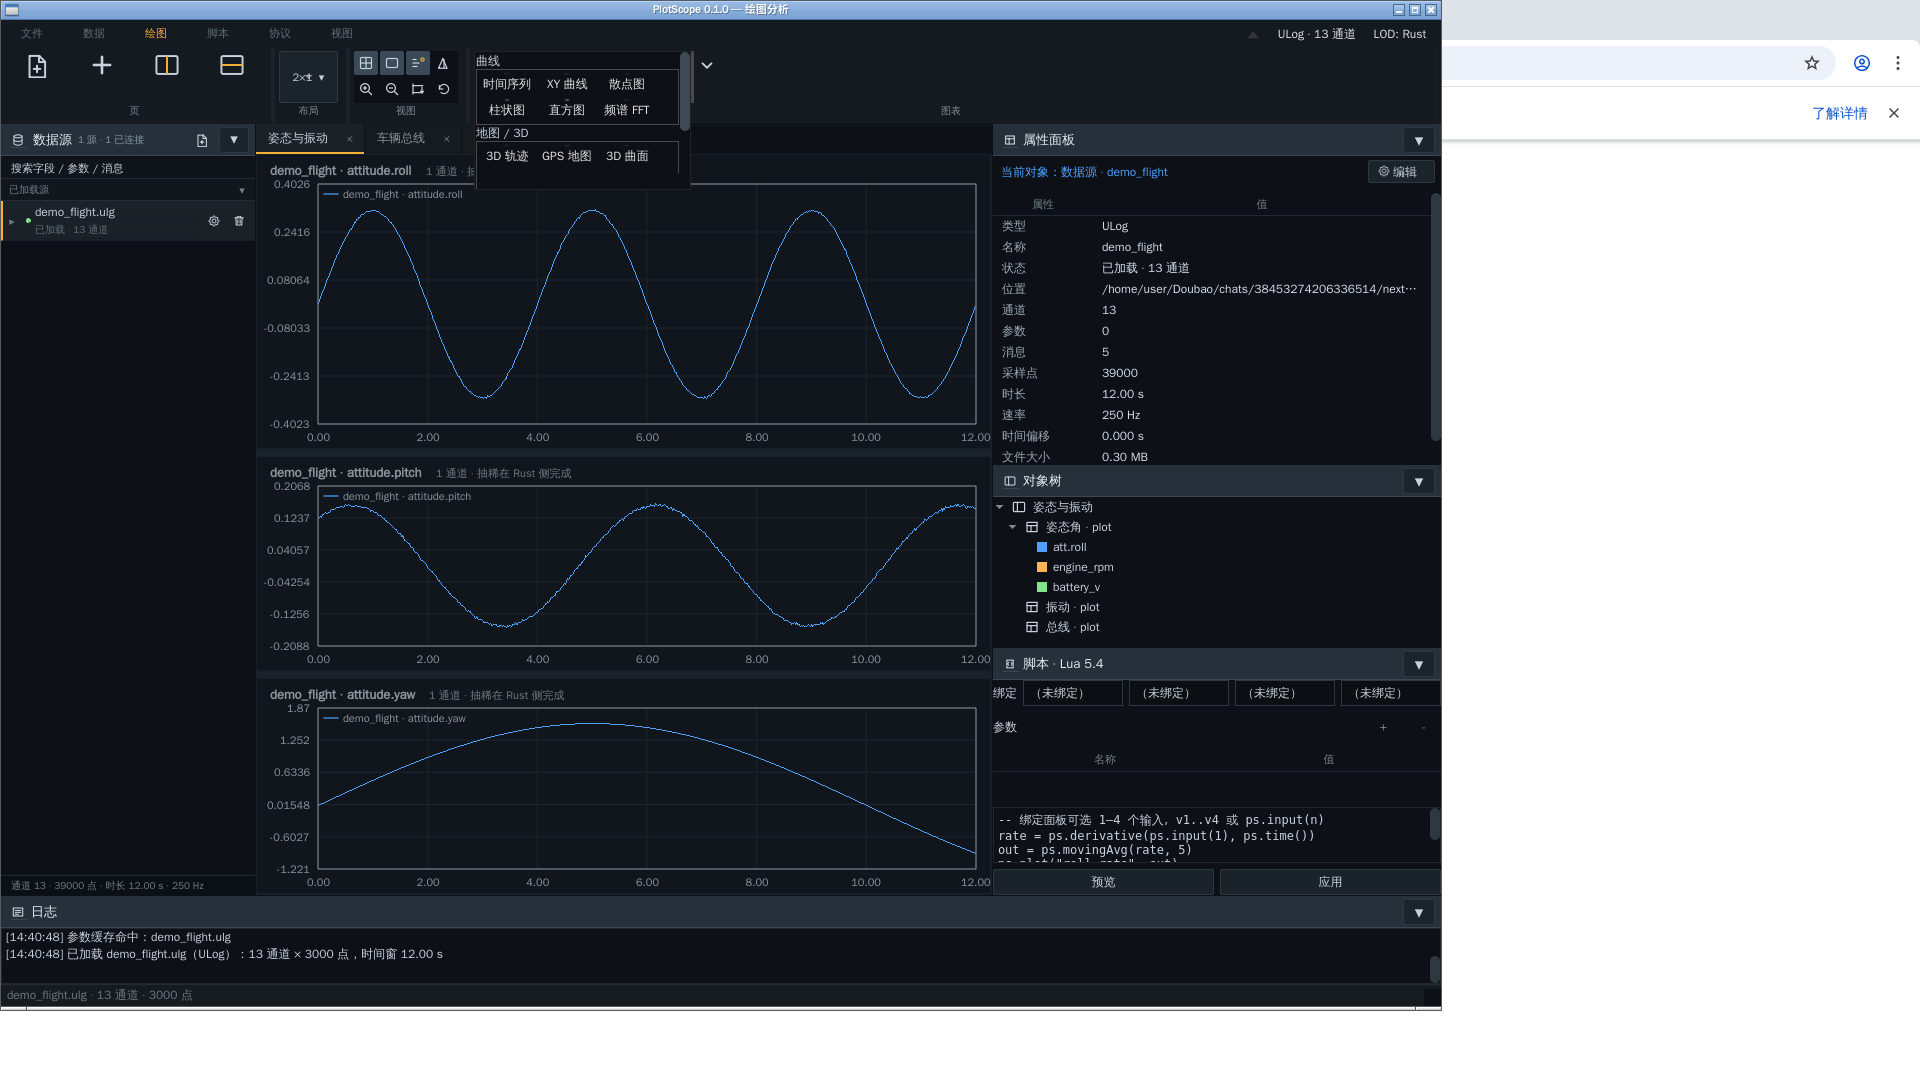
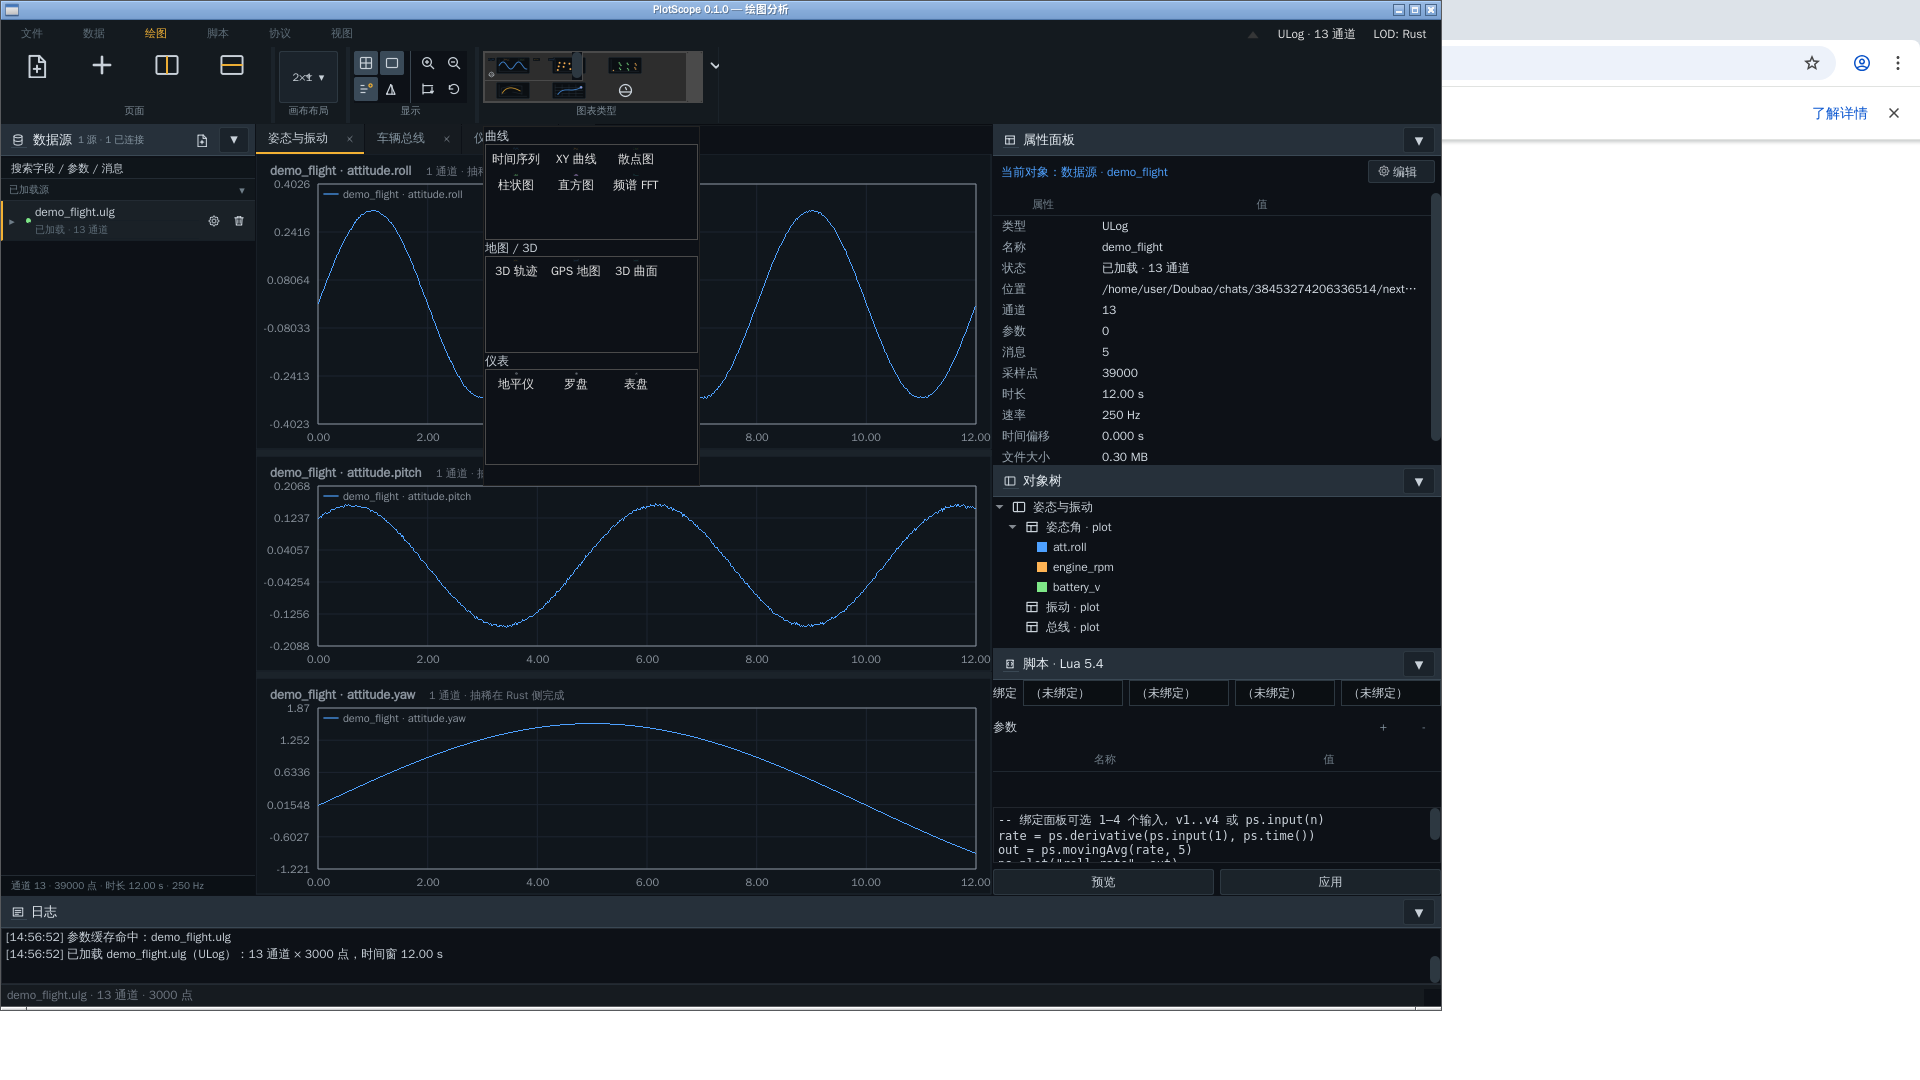
feat(ui): 图库下拉贴 Ribbon 下方展开，重排显示分组并统一面板命名

diff --git a/src/app/shell/MainWindow.cpp b/src/app/shell/MainWindow.cpp
@@ -1431,7 +1431,7 @@ QWidget *MainWindow::createRibbon()
     {
         auto *cat = ribbon->addCategoryPage(QStringLiteral("绘图"));
 
-        auto *pPage = cat->addPanel(QStringLiteral("页"));
+        auto *pPage = cat->addPanel(QStringLiteral("页面"));
         addLarge(pPage, QStringLiteral("新建页"), [this] { newPage(); }, this);
         addLarge(pPage, QStringLiteral("添加画布"), [this] { addCanvasToPage(); }, this);
         addLarge(pPage, QStringLiteral("向右拆分"), [this] {
@@ -1444,7 +1444,7 @@ QWidget *MainWindow::createRibbon()
         }, this);
 
         // 页内布局：MATLAB subplot / PJ 的 m×n
-        auto *pGrid = cat->addPanel(QStringLiteral("布局"));
+        auto *pGrid = cat->addPanel(QStringLiteral("画布布局"));
         auto *layoutBtn = new QToolButton(pGrid);
         layoutBtn->setText(QStringLiteral("2×1  \u25be"));
         layoutBtn->setToolTip(QStringLiteral("悬停选择行×列，点击重排当前页画布"));
@@ -1466,7 +1466,7 @@ QWidget *MainWindow::createRibbon()
         };
         pGrid->addWidget(layoutBtn, SARibbonPanelItem::Large);
 
-        auto *pView = cat->addPanel(QStringLiteral("视图"));
+        auto *pView = cat->addPanel(QStringLiteral("显示"));
         auto *aGrid = new QAction(QStringLiteral("网格"), this);
         auto *aBox = new QAction(QStringLiteral("边框"), this);
         auto *aLegend = new QAction(QStringLiteral("图例"), this);
@@ -1488,26 +1488,40 @@ QWidget *MainWindow::createRibbon()
             {aZoomIn, QStringLiteral("zoom_in")}, {aZoomOut, QStringLiteral("zoom_out")},
             {aAutoY, QStringLiteral("autoy")}, {aReset, QStringLiteral("reset")}};
         auto *viewBox = new QWidget(pView);
-        auto *viewGrid = new QGridLayout(viewBox);
-        viewGrid->setContentsMargins(0, 0, 0, 0);
-        viewGrid->setSpacing(2);
-        for (int i = 0; i < viewActs.size(); ++i)
-        {
-            QAction *a = viewActs.at(i).first;
-            a->setIcon(QIcon(QStringLiteral(":/icons/%1.svg").arg(viewActs.at(i).second)));
-            auto *b = new QToolButton(viewBox);
-            b->setDefaultAction(a);
-            b->setToolButtonStyle(Qt::ToolButtonIconOnly);
-            b->setAutoRaise(true);
-            b->setIconSize(QSize(16, 16));
-            b->setStyleSheet(QStringLiteral(
-                "QToolButton{background:transparent;border:0;padding:0;}"
-                "QToolButton:hover{background:#2d3841;}"
-                "QToolButton:checked{background:#3a4a58;}"));
-            b->setFixedSize(24, 24);
-            viewGrid->addWidget(b, i / 4, i % 4);
-        }
-        viewBox->setFixedSize(4 * 26, 2 * 26);
+        auto *viewRow = new QHBoxLayout(viewBox);
+        viewRow->setContentsMargins(0, 0, 0, 0);
+        viewRow->setSpacing(4);
+        auto makeViewGrid = [&](int first) {
+            auto *box = new QWidget(viewBox);
+            auto *grid = new QGridLayout(box);
+            grid->setContentsMargins(0, 0, 0, 0);
+            grid->setSpacing(2);
+            for (int i = 0; i < 4; ++i)
+            {
+                QAction *a = viewActs.at(first + i).first;
+                a->setIcon(QIcon(QStringLiteral(":/icons/%1.svg").arg(viewActs.at(first + i).second)));
+                auto *b = new QToolButton(box);
+                b->setDefaultAction(a);
+                b->setToolButtonStyle(Qt::ToolButtonIconOnly);
+                b->setAutoRaise(true);
+                b->setIconSize(QSize(16, 16));
+                b->setStyleSheet(QStringLiteral(
+                    "QToolButton{background:transparent;border:0;padding:0;}"
+                    "QToolButton:hover{background:#2d3841;}"
+                    "QToolButton:checked{background:#3a4a58;}"));
+                b->setFixedSize(24, 24);
+                grid->addWidget(b, i / 2, i % 2);
+            }
+            box->setFixedSize(2 * 26, 2 * 26);
+            return box;
+        };
+        viewRow->addWidget(makeViewGrid(0));
+        auto *sep = new QFrame(viewBox);
+        sep->setFrameShape(QFrame::VLine);
+        sep->setStyleSheet(QStringLiteral("color:#3a4650;"));
+        viewRow->addWidget(sep);
+        viewRow->addWidget(makeViewGrid(4));
+        viewBox->setFixedSize(2 * 26 + 9 + 2 * 26, 2 * 26);
         pView->addWidget(viewBox, SARibbonPanelItem::Large);
         const QVector<CanvasWidget *> initial = pageCanvases();
         if (!initial.isEmpty())
@@ -1555,7 +1569,9 @@ QWidget *MainWindow::createRibbon()
             for (CanvasWidget *c : pageCanvases()) c->requestAutoY();
         });
 
-        auto *pType = cat->addPanel(QStringLiteral("图表"));
+        auto *pType = cat->addPanel(QStringLiteral("图表类型"));
+        pType->setExpanding(false);
+        pType->setMaximumWidth(240);
         auto *plotGallery = pType->addGallery(true);
         QList<QAction *> curveActs, mapActs, gaugeActs;
         QHash<QString, QAction *> plotActByKind;
@@ -1635,12 +1651,19 @@ QWidget *MainWindow::createRibbon()
             g->setGridMinimumWidth(60);
             g->setGridMaximumWidth(76);
         };
+        auto stylePlotCommon = [](SARibbonGalleryGroup *g) {
+            g->setGalleryGroupStyle(SARibbonGalleryGroup::IconOnly);
+            g->setDisplayRow(SARibbonGalleryGroup::DisplayTwoRow);
+            g->setIconSize(QSize(52, 30));
+            g->setGridMinimumWidth(56);
+            g->setGridMaximumWidth(62);
+        };
         QList<QAction *> commonActs;
         for (const char *k : {"timeseries", "xy", "scatter", "traj3d", "map", "horizon"})
             if (auto *a = plotActByKind.value(QString::fromLatin1(k)))
                 commonActs.append(a);
         auto *commonGroup = plotGallery->addCategoryActions(QStringLiteral("常用"), commonActs);
-        stylePlotGroup(commonGroup);
+        stylePlotCommon(commonGroup);
         auto *curveGroup = plotGallery->addCategoryActions(QStringLiteral("曲线"), curveActs);
         stylePlotGroup(curveGroup);
         auto *mapGroup = plotGallery->addCategoryActions(QStringLiteral("地图 / 3D"), mapActs);
@@ -1658,8 +1681,6 @@ QWidget *MainWindow::createRibbon()
         }
         addSmall(pType, QStringLiteral("\u25be"), [plotGallery] {
             plotGallery->showMoreDetail();
-            if (auto *vp = plotGallery->findChild<SARibbonGalleryViewport *>())
-                vp->resize(vp->width(), std::max(vp->heightHintForWidth(vp->width()), 380));
         }, this);
 
     }

diff --git a/src/3rdparty/saribbon/src/SARibbonBar/SARibbonGallery.cpp b/src/3rdparty/saribbon/src/SARibbonBar/SARibbonGallery.cpp
@@ -772,7 +772,18 @@ void SARibbonGallery::showMoreDetail()
     if (Q_UNLIKELY(!d_ptr->mPopupWidget))
         return;
 
-    const QPoint start = mapToGlobal(QPoint(0, 0));
+    // 下拉锚在整个 Ribbon 下方，不覆盖 Ribbon；下方空间不足时再翻到上方
+    QRect anchor(mapToGlobal(QPoint(0, 0)), size());
+    int ribbonBottom = anchor.bottom();
+    QWidget* ancestor = this;
+    while (ancestor->parentWidget()) {
+        ancestor = ancestor->parentWidget();
+        if (QByteArray(ancestor->metaObject()->className()).contains("SARibbonBar")) {
+            ribbonBottom = ancestor->mapToGlobal(QPoint(0, ancestor->height())).y();
+            break;
+        }
+    }
+    QPoint start = QPoint(anchor.left(), ribbonBottom + 2);
     const QScreen* scr = QGuiApplication::screenAt(start);
     if (!scr)  // 罕见情况：跨屏拖动后原屏幕消失
         scr = QGuiApplication::primaryScreen();
@@ -787,17 +798,26 @@ void SARibbonGallery::showMoreDetail()
     w = qMin(w, avail.right() - start.x() + 1);
     w = qMax(w, 1);  // 保险：至少 1 px
 
-    /* ---- 计算期望高度 ---- */
+    /* ---- 计算期望高度：按完整内容布局算，避免只显示前两组 ---- */
     int h = d_ptr->mPopupWidget->heightHintForWidth(w);
-
-    /* ---- 高度不超过屏幕底部 ---- */
-    int maxH = avail.bottom() - start.y() + 1;
-    if (h > maxH) {
-        h = maxH;
+    if (QWidget* content = d_ptr->mPopupWidget->widget()) {
+        h = qMax(h, content->sizeHint().height() + 4);
     }
 
-    d_ptr->mPopupWidget->setGeometry(start.x(), start.y(), w, h);
+    /* ---- 下方放不下时翻到上方 ---- */
+    if (start.y() + h > avail.bottom() + 1) {
+        const int above = anchor.top() - avail.top() - 4;
+        if (above > 120) {
+            h = qMin(h, above);
+            start.setY(anchor.top() - 4 - h);
+        } else {
+            start.setY(qMax(avail.top(), avail.bottom() + 1 - h));
+        }
+    }
+
+    d_ptr->mPopupWidget->setGeometry(start.x(), start.y(), w, qMax(h, 360));
     d_ptr->mPopupWidget->show();
+    d_ptr->mPopupWidget->setMinimumHeight(qMax(h, 360));
 }
 
 /**
